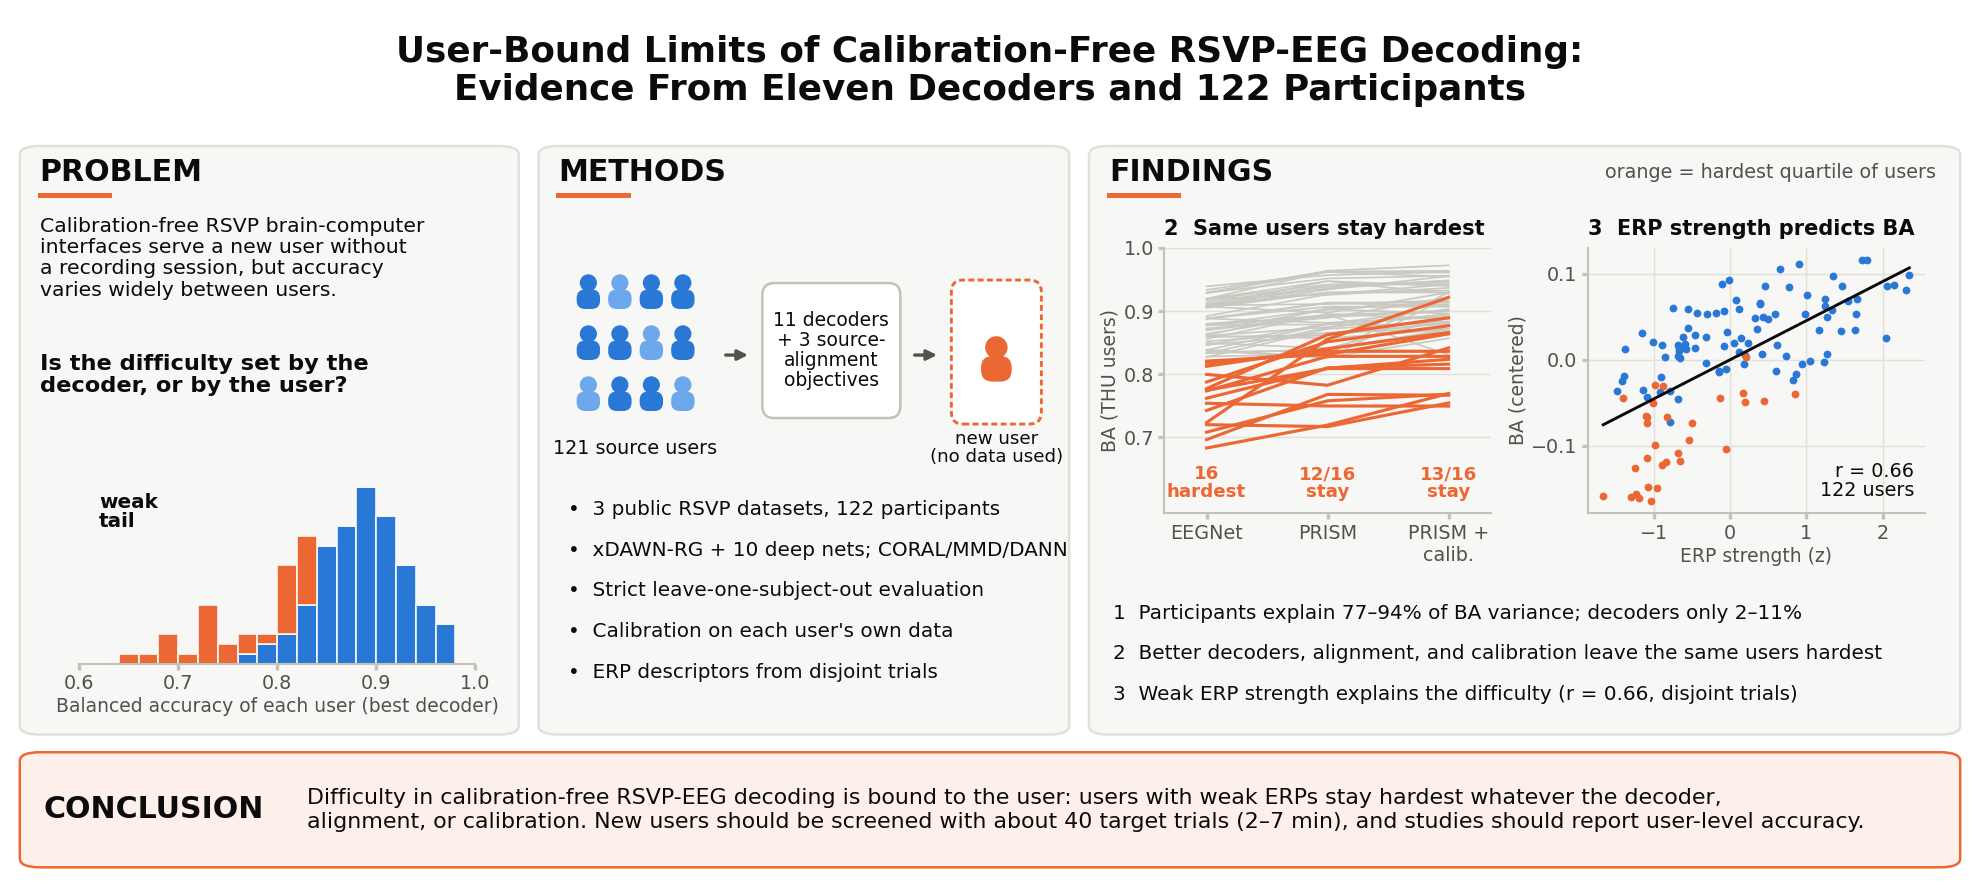
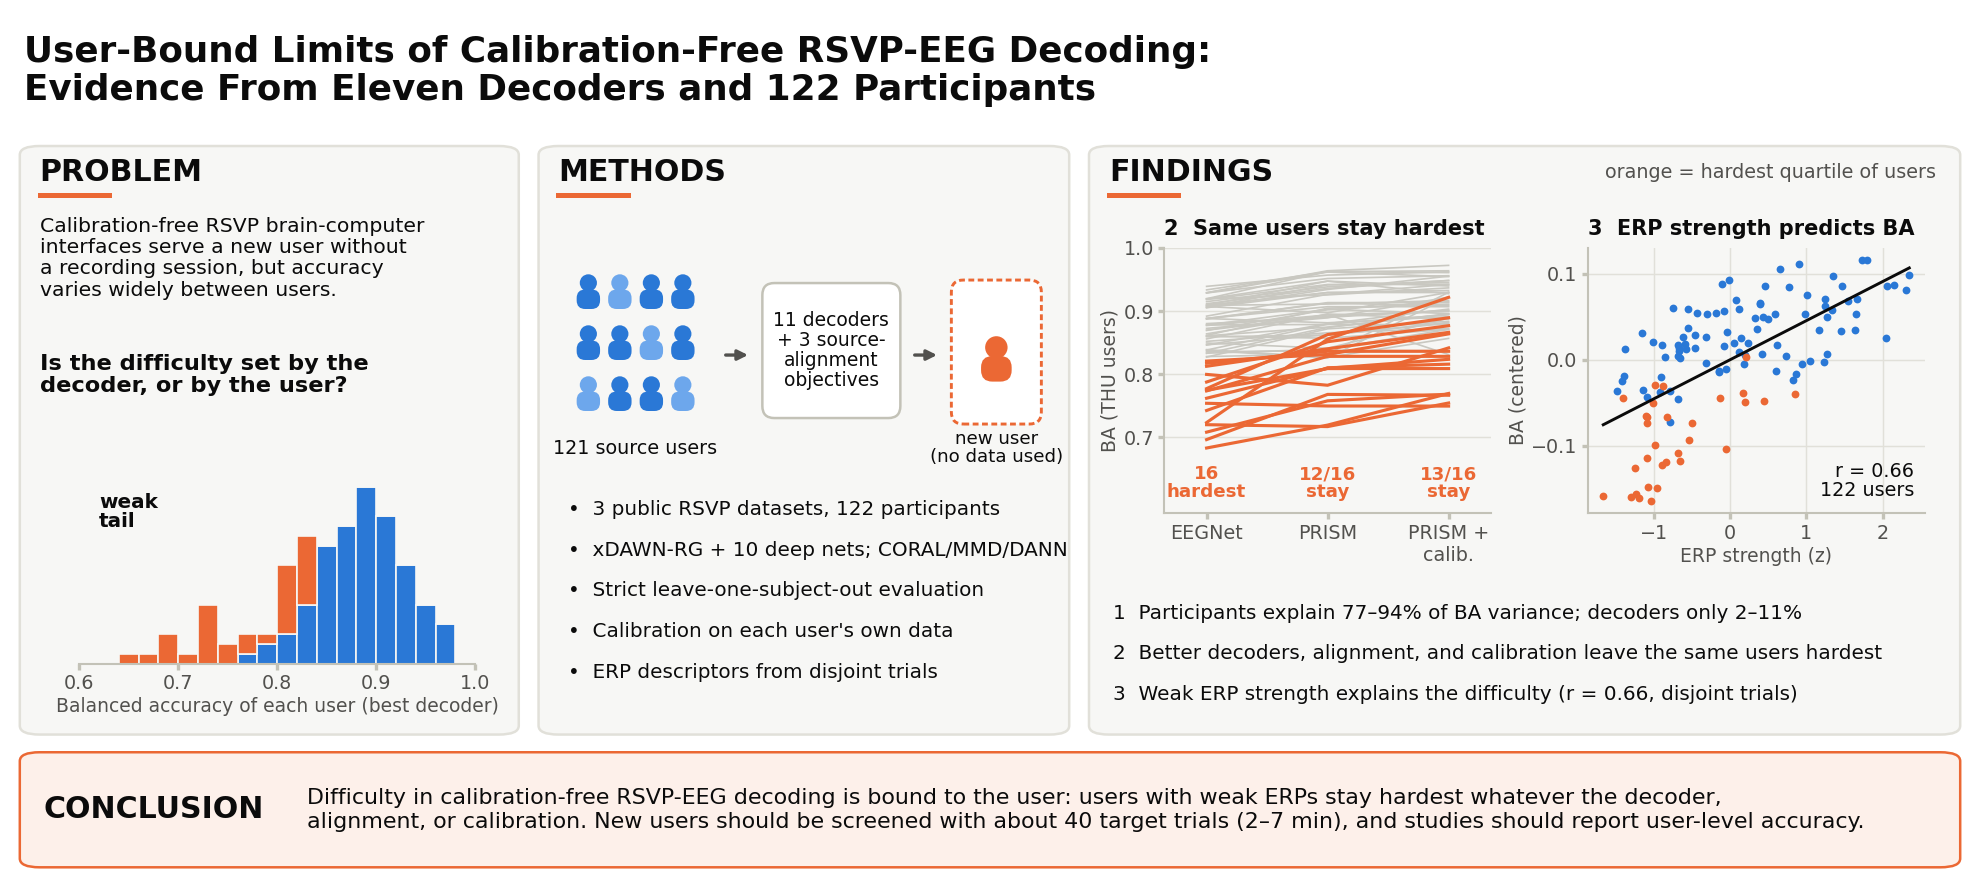
Left-align the graphical abstract title to keep the page-stamp corner free

Changed region(s): [[0.0, 0.0305, 0.801, 0.122]]

diff --git a/scripts/plot_graphical_abstract.py b/scripts/plot_graphical_abstract.py
@@ -70,7 +70,8 @@ def main() -> None:
     axes_df = pd.read_csv(CIRC / "subject_axes_by_split.csv")
 
     # title
-    fig.text(0.5, 0.920, TITLE, ha="center", va="center", fontsize=8.6, fontweight="bold", color=INK,
+    # Left-aligned: the top-right corner stays free for the page stamp of the submission system.
+    fig.text(0.012, 0.920, TITLE, ha="left", va="center", fontsize=8.6, fontweight="bold", color=INK,
              linespacing=1.15)
 
     # ------------------------------------------------------------------ problem
